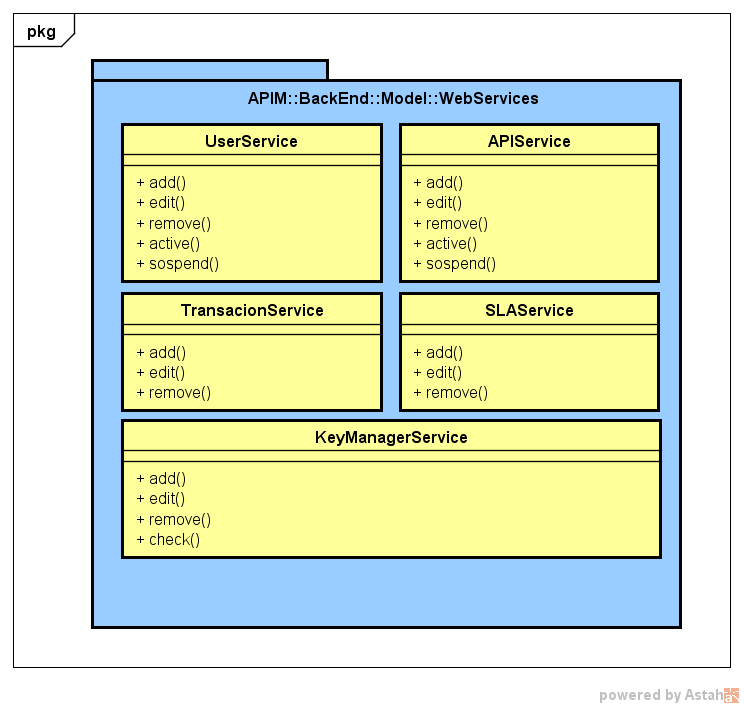
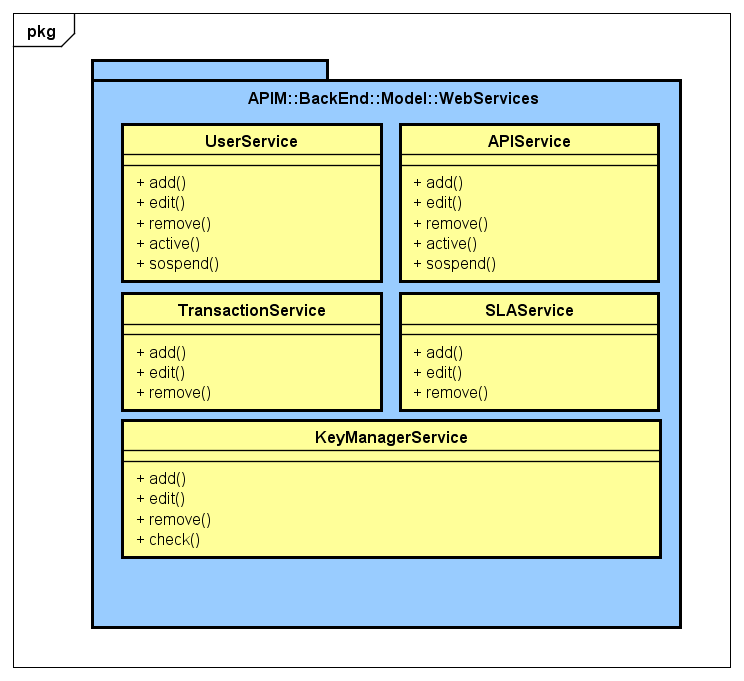
Diagrammi attività + correzioni varie
Cambiati i 3 diagrammi di attività secondo le indicazioni (granularità e
correzioni), adattando anche le descrizioni sottostanti.
Correzioni varie trovate random in giro.

diff --git a/Docs/RQ/Specifica Tecnica/includes/diagrammiattivita.tex b/Docs/RQ/Specifica Tecnica/includes/diagrammiattivita.tex
@@ -7,57 +7,59 @@ Il gruppo ha deciso di prendere in esame tre possibili situazioni rilevanti all'
 \subsection{Diagramma di attività relativa alla ricerca di una API}
 \begin{figure} [H]
 	\centering
-	\includegraphics[width=1.0\linewidth]{"IMG/ricerca API"}
+	\includegraphics[height=0.9\textheight]{"IMG/att_Ricerca_API"}
 	\caption{Diagramma di attività che descrive la ricerca di una API}
 \end{figure}
 \begin{itemize}
-	\item \textbf{Precondizioni}: l'utente si trova all'interno dell'API Market e decide di effettuare una ricerca di un'API in base ad alcuni parametri;
-	\item \textbf{Postcondizioni}: l'utente ha individuato l'API adatta al suo scopo e potrà acquistarla (vedere diagramma \textit{"Acquisto API"});
-	\item \textbf{Descrizione}: l'utente riempie un box di ricerca con i termini desiderati e, in una nuova pagina, visualizza le API corrispondenti ai parametri inseriti. Attualmente, all'utente si presentano due possibili scelte: effettuare una nuova ricerca con parametri diversi, se i risultati della ricerca non soddisfano le sue aspettative, oppure, visualizzare la pagina dedicata ad una API. All'interno di una API si presentano tre possibili scenari: se l'utente è soddisfatto dell'API, può decidere di proseguire l'acquisto, situazione descritta nel diagramma \textit{"Acquisto API"}, oppure ha due alternative, ovvero ritornare ai risultati della ricerca precedente o effettuare una nuova ricerca.
+	\item \textbf{Precondizioni}: l'utente si trova nella schermata di ricerca API;
+	\item \textbf{Postcondizioni}: l'utente ha individuato le API adatte alle sue necessità e, se vuole, potrà effettuare una nuova ricerca oppure visualizzare una delle API risultato;
+	\item \textbf{Descrizione}: l'utente riempie un box di ricerca con le keywords desiderate e visualizza la lista delle API corrispondenti alle keywords. All'utente si presentano due possibili scelte: effettuare una nuova ricerca con keywords diverse, se i risultati della ricerca non soddisfano le sue aspettative, oppure visualizzare la pagina dedicata ad una delle API risultato. Nella schermata di visualizzazione di una API si presentano due possibili scenari: dopo aver consultato la pagina dell'API, se l'utente è soddisfatto può decidere di proseguire l'acquisto, situazione descritta nel diagramma \textit{"Acquisto API"}, oppure ritornare ai risultati della ricerca precedente (da cui potrà anche effettuare una nuova ricerca).
 \end{itemize}
 
 \newpage
 \subsection{Diagramma di attività relativa all'acquisto di una API}
 \begin{figure}[h]
 	\centering
-	\includegraphics[width=1.0\linewidth]{IMG/Acquisto_API}
-	\caption{Diagramma di attività che descrive l'acquisto di un API}
+	\includegraphics[width=1.0\linewidth]{IMG/att_Acquisto_API}
+	\caption{Diagramma di attività che descrive l'acquisto di una API}
 	\label{fig:acquistoapi}
 \end{figure}
 
 \begin{itemize}
-	\item \textbf{Precondizioni}: l'utente ha scelto un'API dal marketplace e vuole acquistarla;
-	\item \textbf{Postcondizioni}: l'utente ha acquistato un'API e può utilizzarla;
-	\item \textbf{Descrizione}: inizialmente, l'utente si trova nella pagina dell'API che desidera acquistare. Una volta cliccato su "Acquista", inserisce la quantità che vuole acquistare in base alla policy prevista per quell'API. Successivamente, vedrà un riepilogo dell'acquisto, contenente l'importo in euro e la quantità espressa in base alla policy, ovvero il numero di chiamate, la quantità di traffico espressa in kB oppure il tempo espresso in minuti. L'utente può decidere se confermare il pagamento, tramite la piattaforma PayPal, oppure annullare l'ordine. Il pagamento avviene su un sito esterno ed è possibile che la transazione non vada a buon fine, quindi, è previsto il caso in cui l'utente abbia problemi con il pagamento e l'acquisto venga annullato. Una volta che l'acquisto è confermato, l'API Market aggiungerà la transazione al database, genererà la chiave e fornirà all'utente l'indirizzo e la stringa da utilizzare per chiamare l'API, terminando, di fatto, l'acquisto con successo. 
+	\item \textbf{Precondizioni}: l'utente si trova nella schermata di acquisto di una API;
+	\item \textbf{Postcondizioni}: l'utente ha acquistato una API e ne ha visualizzato la chiave API;
+	\item \textbf{Descrizione}: l'utente visualizza le informazioni d'acquisto dell'API desiderata, può scegliere il blocco d'acquisto preferito e visualizzare la previsione del saldo. Se il cliente confermerà l'acquisto, verrà reindirizzato alla procedura PayPal per il pagamento. In caso di insuccesso, l'acquisto verrà annullato. In caso di successo, API Market genererà la chiave API ed aggiungerà la transazione al rispettivo database; poi mostrerà all'utente la chiave API generata assieme ad altre informazioni di riepilogo, terminando la procedura di acquisto.
 \end{itemize}
 
 \newpage
 \subsection{Diagramma di attività relativa all'inserimento di una API}
 \begin{figure}[h]
 	\centering
-	\includegraphics[width=1.0\linewidth]{IMG/Inserimento_API}
-	\caption{Diagramma di attività che descrive l'inserimento di un API}
+	\includegraphics[width=1.0\linewidth]{IMG/att_Registrazione_API}
+	\caption{Diagramma di attività che descrive la registrazione di una nuova API}
 	\label{fig:inserimentoapi}
 \end{figure}
 
 
 \begin{itemize}
-	\item \textbf{Precondizioni}: l'utente ha sviluppato un'API e si trova nel proprio profilo, con l'intenzione di pubblicarla sul marketplace;
-	\item \textbf{Postcondizioni}: l'utente ha aggiunto un'API al marketplace;
-	\item \textbf{Descrizione}: l'utente si trova nel suo profilo e tramite il pulsante "Aggiungi API", carica una sua API sull'API Market. L'utente visualizza, in una nuova pagina, una serie di campi in cui inserire i dati richiesti per la sua API. I dati in questione sono elencati di seguito:
+	\item \textbf{Precondizioni}: l'utente si trova nella schermata di registrazione di una nuova API;
+	\item \textbf{Postcondizioni}: l'utente ha registrato una nuova API in API Market;
+	\item \textbf{Descrizione}: l'utente inserisce i dati richiesti per la registrazione della nuova API. I dati in questione sono elencati di seguito:
 	\begin{itemize}
 		\item Nome dell'API;
 		\item Categoria di appartenenza dell'API;
 		\item Codice dell'interfaccia dell'API;
 		\item Documentazione dell'API;
+		\item Policy di vendita dell'API, ovvero:
+		\begin{itemize}
+			\item \textbf{Policy a chiamate}: calcolata in euro per ogni chiamata da parte di un acquirente dell'API;
+			\item \textbf{Policy a traffico}: calcolata in euro per ogni kB trasmesso ad un acquirente dell'API;
+			\item \textbf{Policy a tempo}: calcolata in euro per ogni minuto di elaborazione da parte di un acquirente dell'API.
+		\end{itemize}
+		\item Guadagno netto dell'API in base alla policy scelta;
 		\item Logo dell'API;
 		\item Indirizzo dell'API;
-		\item Scelta per la policy e il guadagno della sua API, ovvero:
-		\begin{itemize}
-			\item \textbf{Policy a chiamate}: definisce il guadagno espresso in euro per ogni chiamata da parte di un acquirente dell'API;
-			\item \textbf{Policy a traffico}: definisce il guadagno espresso in euro per ogni kB trasmesso all'acquirente dell'API;
-			\item \textbf{Policy a tempo}: definisce il guadagno espresso in euro per ogni minuto di utilizzo da parte di un acquirente dell'API.
-		\end{itemize}		
+				
 	\end{itemize}
-	Successivamente, può decidere se annullare il caricamento oppure confermarlo. Una volta inviata la conferma, l'API Market restituirà una conferma e salverà l'API nel database, rendendola disponibile all'acquisto da parte dei fruitori dell'API Market.
+	Successivamente può confermare la registrazione dell'API, che verrà salvata in API Market e resa disponibile a tutti gli utenti.
 \end{itemize}

diff --git a/Docs/RQ/Specifica Tecnica/includes/specificaprodotto.tex b/Docs/RQ/Specifica Tecnica/includes/specificaprodotto.tex
@@ -70,4 +70,4 @@ Il design pattern architetturale scelto per l'API Gateway è il design pattern \
 Ogni servizio non può intraprendere la propria esecuzione se non è terminato il servizio precedente. Un punto critico di questa scelta è la lunghezza della catena. L'API Gateway è progettato per elaborare una richiesta e ritornare una risposta al chiamante, trattandosi, dunque, di richieste sincrone. Una catena troppo lunga crea una tempo di attesa non indifferente per il client, considerando che bisogna valutare anche il tempo impiegato dal microservizio target della chiamata all'API Gateway.
 
 \subsubsection{SOA vs. Microservices Architecture}
-In sede di scelta architetturale, il gruppo \textit{\gruppo} ha analizzato le principali architetture in materia di microservizi. L'architettura \textbf{\textit{Service Oriented Architecture}} è una scelta intermedia tra le applicazioni monolitiche e le applicazioni completamente a microservizi. In una \textit{SOA}, l'applicazione è composta da una sorta di collezione di servizi. L'applicazione base viene, quindi, scomposta in una collezione di servizi. L’approccio a microservizi tende, invece, alla realizzazione di una singola applicazione composta da un numero arbitrario di servizi. Essi vengono, quindi, sviluppati ed implementati in maniera indipendente. Tale approccio presenta un alto livello di flessibilità e scalabilità, predisponendo la massima indipendenza dei componenti (microservizi). Un esempio è la scelta di utilizzo del database citata precedentemente: nella traduzione di un'applicazione da monolitica (oppure \textit{SOA}) ad un'architettura a microservizi, il database viene scomposto in parti indipendenti. La comunicazione tra i servizi è basata su HTTP, tramite le \textit{API RESTful\ped{G}}, con passaggio dei dati in formato \textit{JSON\ped{G}}. Nello specifico caso del nostro applicativo, la comunicazione sarà gestita su un diverso livello di astrazione, tramite i framework MeteorJS e AngularJS, i quali si occuperanno della trasmissione dati in formato JSON con maggior autonomia.
+In sede di scelta architetturale, il gruppo \textit{\gruppo} ha analizzato le principali architetture in materia di microservizi. L'architettura \textbf{\textit{Service Oriented Architecture}} è una scelta intermedia tra le applicazioni monolitiche e le applicazioni completamente a microservizi. In una \textit{SOA}, l'applicazione è composta da una sorta di collezione di servizi. L'applicazione base viene, quindi, scomposta in una collezione di servizi. L'approccio a microservizi tende, invece, alla realizzazione di una singola applicazione composta da un numero arbitrario di servizi. Essi vengono, quindi, sviluppati ed implementati in maniera indipendente. Tale approccio presenta un alto livello di flessibilità e scalabilità, predisponendo la massima indipendenza dei componenti (microservizi). Un esempio è la scelta di utilizzo del database citata precedentemente: nella traduzione di un'applicazione da monolitica (oppure \textit{SOA}) ad un'architettura a microservizi, il database viene scomposto in parti indipendenti. La comunicazione tra i servizi è basata su HTTP, tramite le \textit{API RESTful\ped{G}}, con passaggio dei dati in formato \textit{JSON\ped{G}}. Nello specifico caso del nostro applicativo, la comunicazione sarà gestita su un diverso livello di astrazione, tramite i framework MeteorJS e AngularJS, i quali si occuperanno della trasmissione dati in formato JSON con maggior autonomia.

diff --git a/Docs/RQ/Specifica Tecnica/includes/packages.tex b/Docs/RQ/Specifica Tecnica/includes/packages.tex
@@ -2,7 +2,7 @@
 \section{Diagrammi dei packages e delle classi}
 
 \subsection{Introduzione}
-Questa sezione racchiude i diagrammi dei packages, raccolti tramite un approccio top-down. \textbf{N.B.: raggiunto il sub-package minimo, si procederà con la descrizione delle classi implementate al suo interno}.\\Considerando l'approccio adottato e il particolare applicativo realizzato con un pattern a microservizi, il team non si discosterà dalla nomenclatura tradizionale di \textit{Classe}, intesa come una categoria di entità in grado di svolgere uno specifico compito. Data l'attuale mancanza di uno standard UML per descrivere i microservizi, abbiamo optato per la soluzione che ritenevamo più semplice e leggibile. Nei diagrammi delle classi del back-end, abbiamo rappresentato graficamente come \textit{classe}, ciò che in realtà è un microservizio. I suoi metodi mostrano l'interfaccia da esso esposta, mentre i campi dati saranno presenti solo nell'implementazione del microservizio. Trattandosi di una progettazione con un livello di dettaglio intermedio, le classi non verranno definite, bensì verrà data una descrizione della loro funzionalità, lo scopo e le relazioni che intercorrono con le altre classi. Tale descrizione sarà integrata nella seguente descrizione dei packages al livello più basso dell'elenco.
+Questa sezione racchiude i diagrammi dei packages, raccolti tramite un approccio top-down. \textbf{N.B.: raggiunto il sub-package minimo, si procederà con la descrizione delle classi implementate al suo interno}.\\Considerando l'approccio adottato e il particolare applicativo realizzato con un pattern a microservizi, il team non si discosterà dalla nomenclatura tradizionale di \textit{Classe}, intesa come una categoria di entità in grado di svolgere uno specifico compito. Data l'attuale mancanza di uno standard UML per descrivere i microservizi, abbiamo optato per la soluzione che ritenevamo più semplice e leggibile. Nei diagrammi delle classi del back-end, abbiamo rappresentato graficamente come classe, ciò che in realtà è un microservizio. I suoi metodi mostrano l'interfaccia da esso esposta, mentre i campi dati saranno presenti solo nell'implementazione del microservizio. Trattandosi di una progettazione con un livello di dettaglio intermedio, le classi non verranno definite, bensì verrà data una descrizione della loro funzionalità, lo scopo e le relazioni che intercorrono con le altre classi. Tale descrizione sarà integrata nella seguente descrizione dei packages al livello più basso dell'elenco.
 
 L'applicativo API Market è strutturato, come di consueto, in un lato front-end ed un lato back-end, come mostrato dal diagramma seguente:
 

diff --git a/Docs/RQ/Specifica Tecnica/includes/tracciamento.tex b/Docs/RQ/Specifica Tecnica/includes/tracciamento.tex
@@ -1315,6 +1315,7 @@
 		
 		Il tracciamento componenti-requisiti del package APIGateway è stato omesso in quanto esso si occupa della chiamate ai microservizi, che sono estranei alla nostra responsabilità.
 
+\newpage
 \subsection{Mappatura requisiti-componenti}
 
 		\begin{longtable}{ p{4cm} | p{12cm} }
